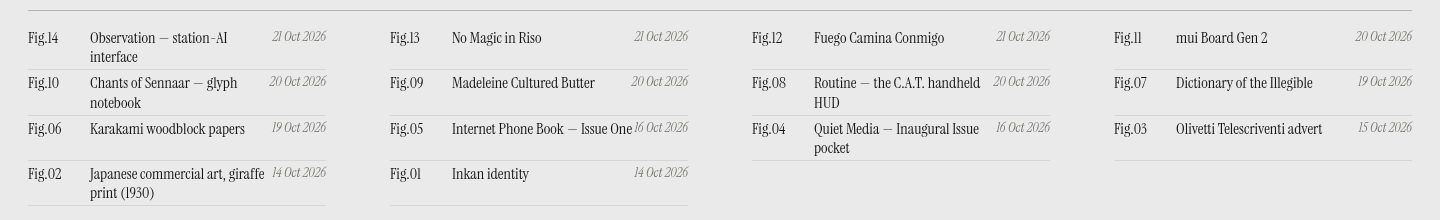
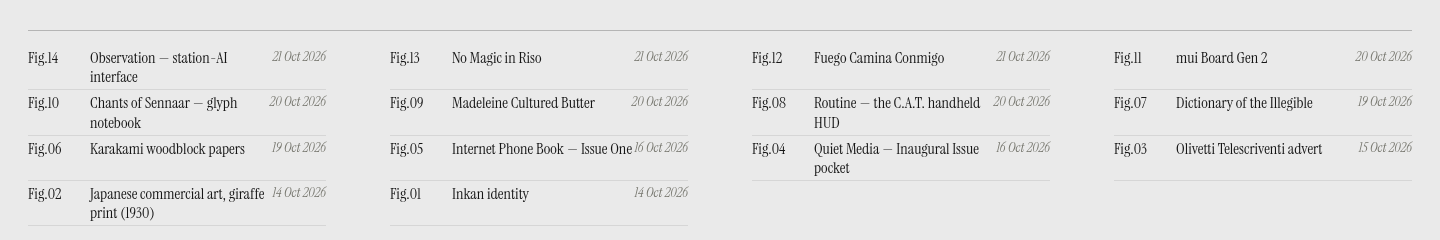
Uniform index row heights

diff --git a/index.html b/index.html
@@ -16,8 +16,8 @@ h1{font-weight:500;font-size:clamp(56px,11vw,180px);letter-spacing:-.055em;line-
 .lab{font-family:"Instrument Serif",serif;font-size:14px;margin-bottom:7px;display:flex;gap:10px}
 .lab i{color:var(--mute)}
 .cap{margin-top:9px;font-size:14px;line-height:1.35}.cap b{font-weight:500;display:block}.cap span{color:var(--mute)}
-.index{margin:40px 28px 0;border-top:1px solid var(--rule);display:grid;grid-template-columns:repeat(auto-fill,minmax(260px,1fr));column-gap:64px;padding:14px 0 60px}
-.index a{display:grid;grid-template-columns:62px 1fr auto;font-family:"Instrument Serif",serif;font-size:16px;line-height:1.2;padding:3px 0;border-bottom:1px solid #16161618}
+.index{margin:40px 28px 0;border-top:1px solid var(--rule);display:grid;grid-template-columns:repeat(auto-fill,minmax(260px,1fr));column-gap:64px;grid-auto-rows:1fr;padding:14px 0 60px}
+.index a{display:grid;grid-template-columns:62px 1fr auto;align-items:start;align-content:start;font-family:"Instrument Serif",serif;font-size:16px;line-height:1.2;padding:3px 0;border-bottom:1px solid #16161618}
 .index a:hover{color:#5a5a52}.index em{color:var(--mute);font-size:14px}
 @media(max-width:760px){.plate{grid-template-columns:repeat(6,1fr);row-gap:56px;column-gap:16px;padding:48px 16px}.card{grid-column:span 6!important;margin:0!important}.card.s{grid-column:span 3!important}header{padding:16px}.index{margin:20px 16px}}
 header{position:sticky;top:0;z-index:5;padding:14px 28px 0;text-align:center;pointer-events:none}
